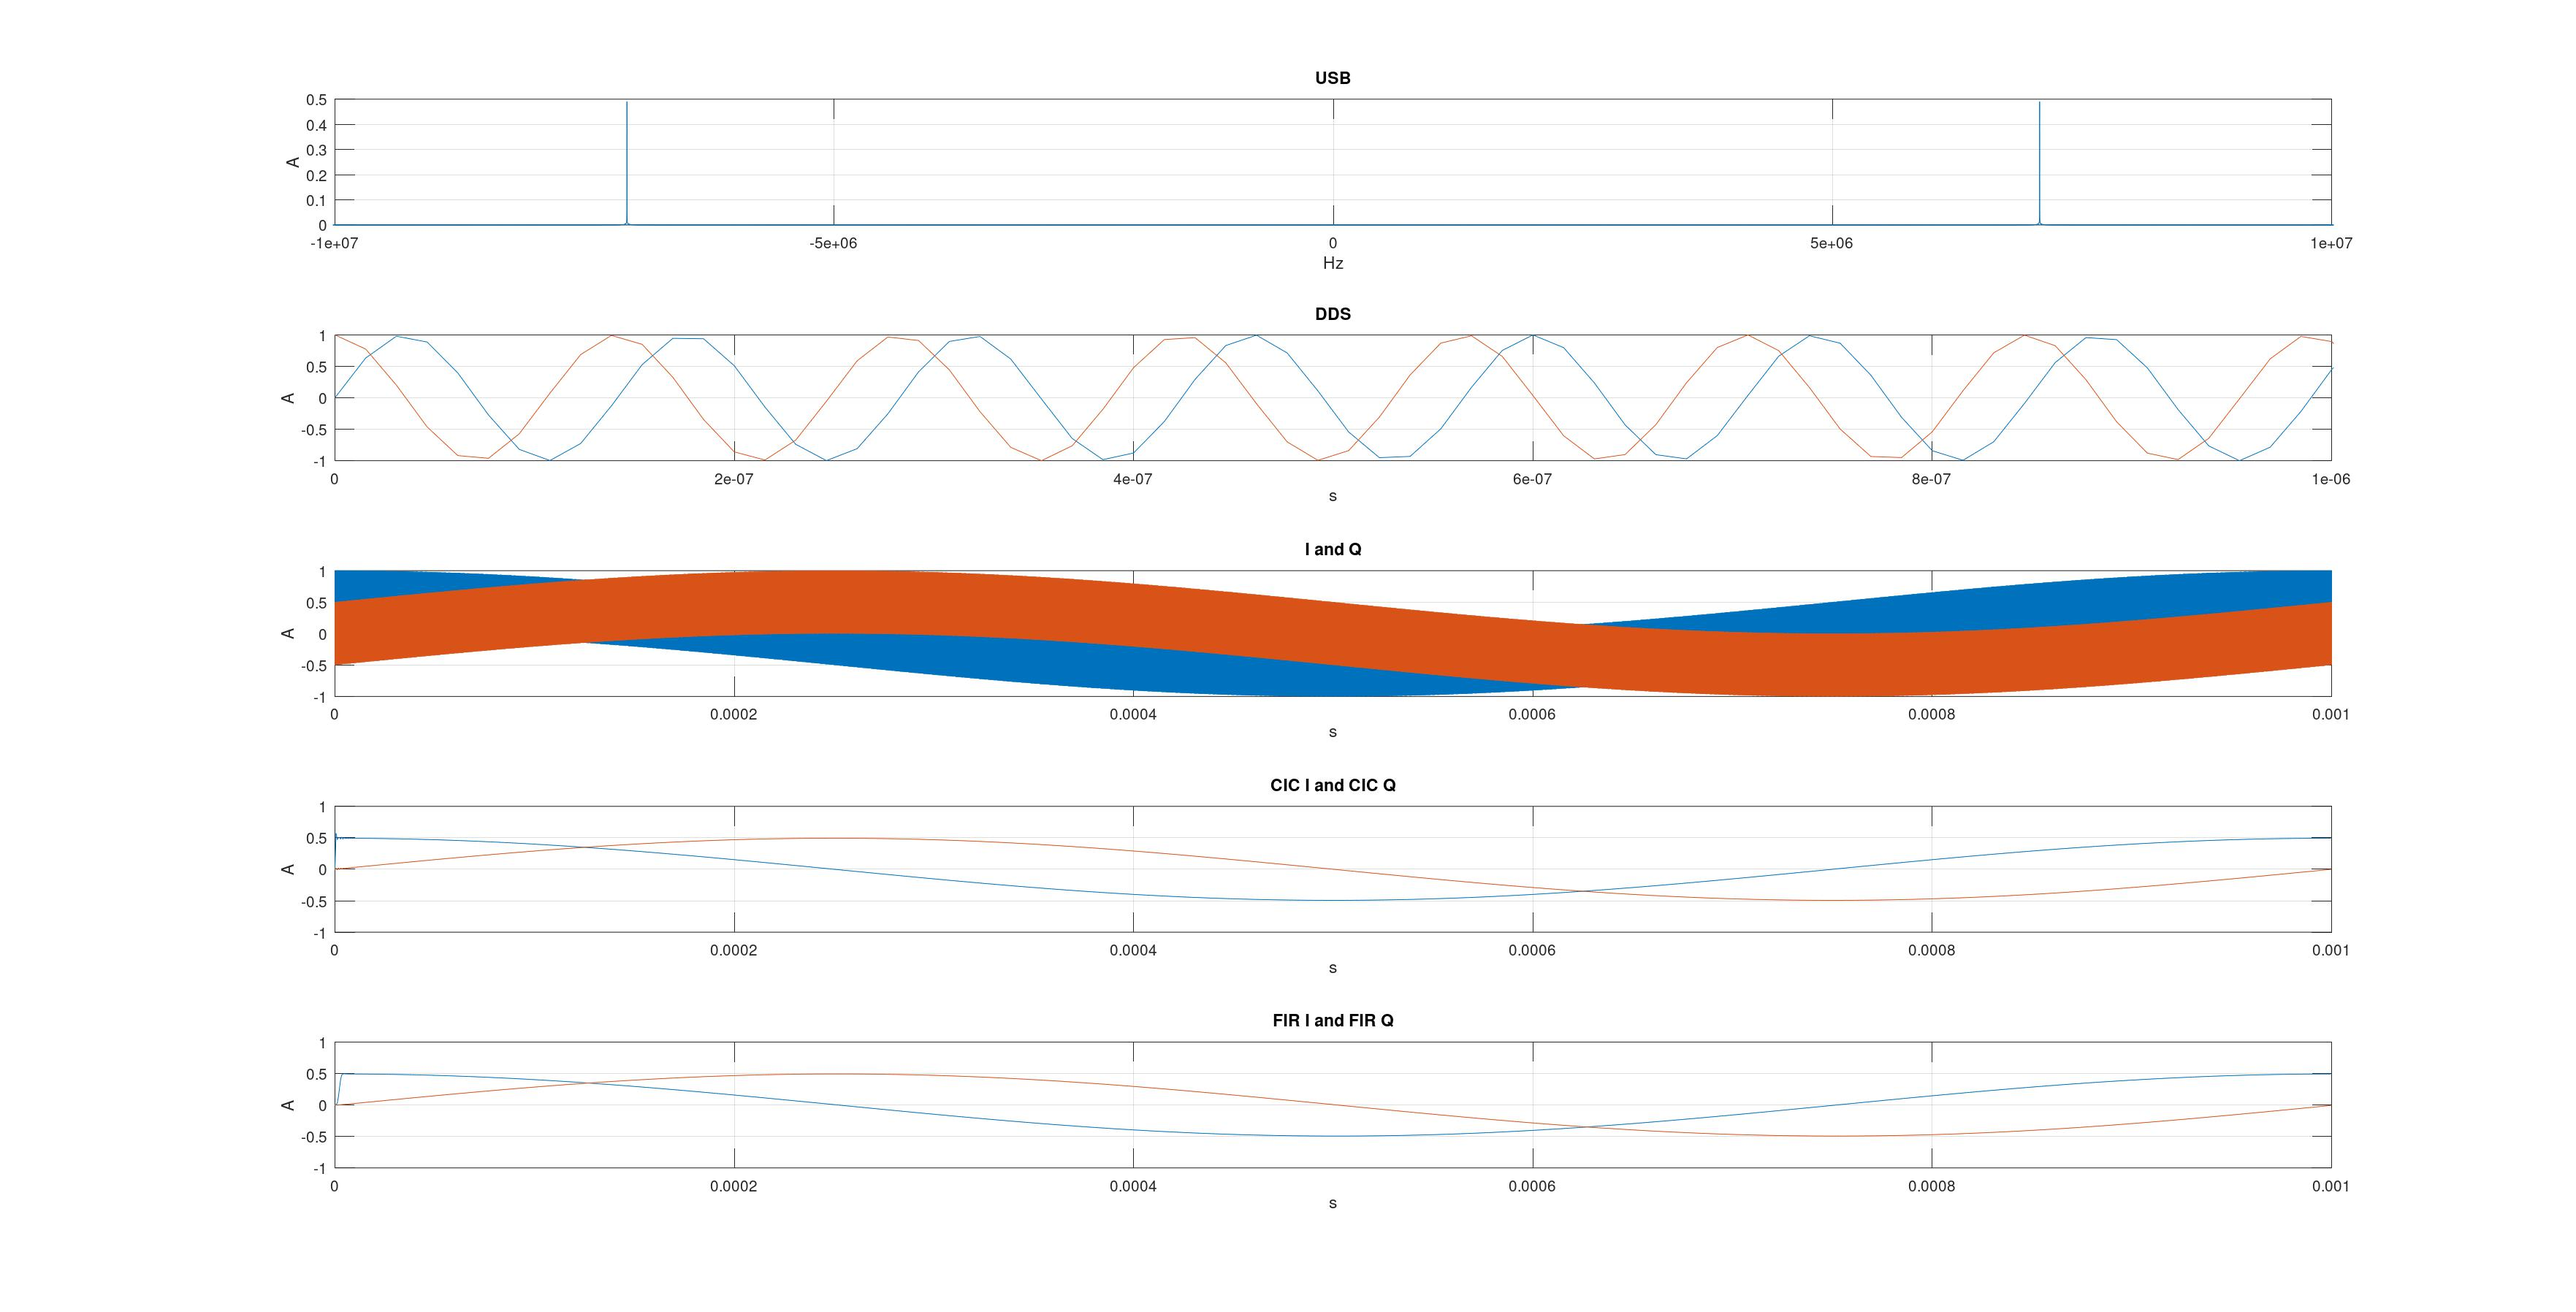
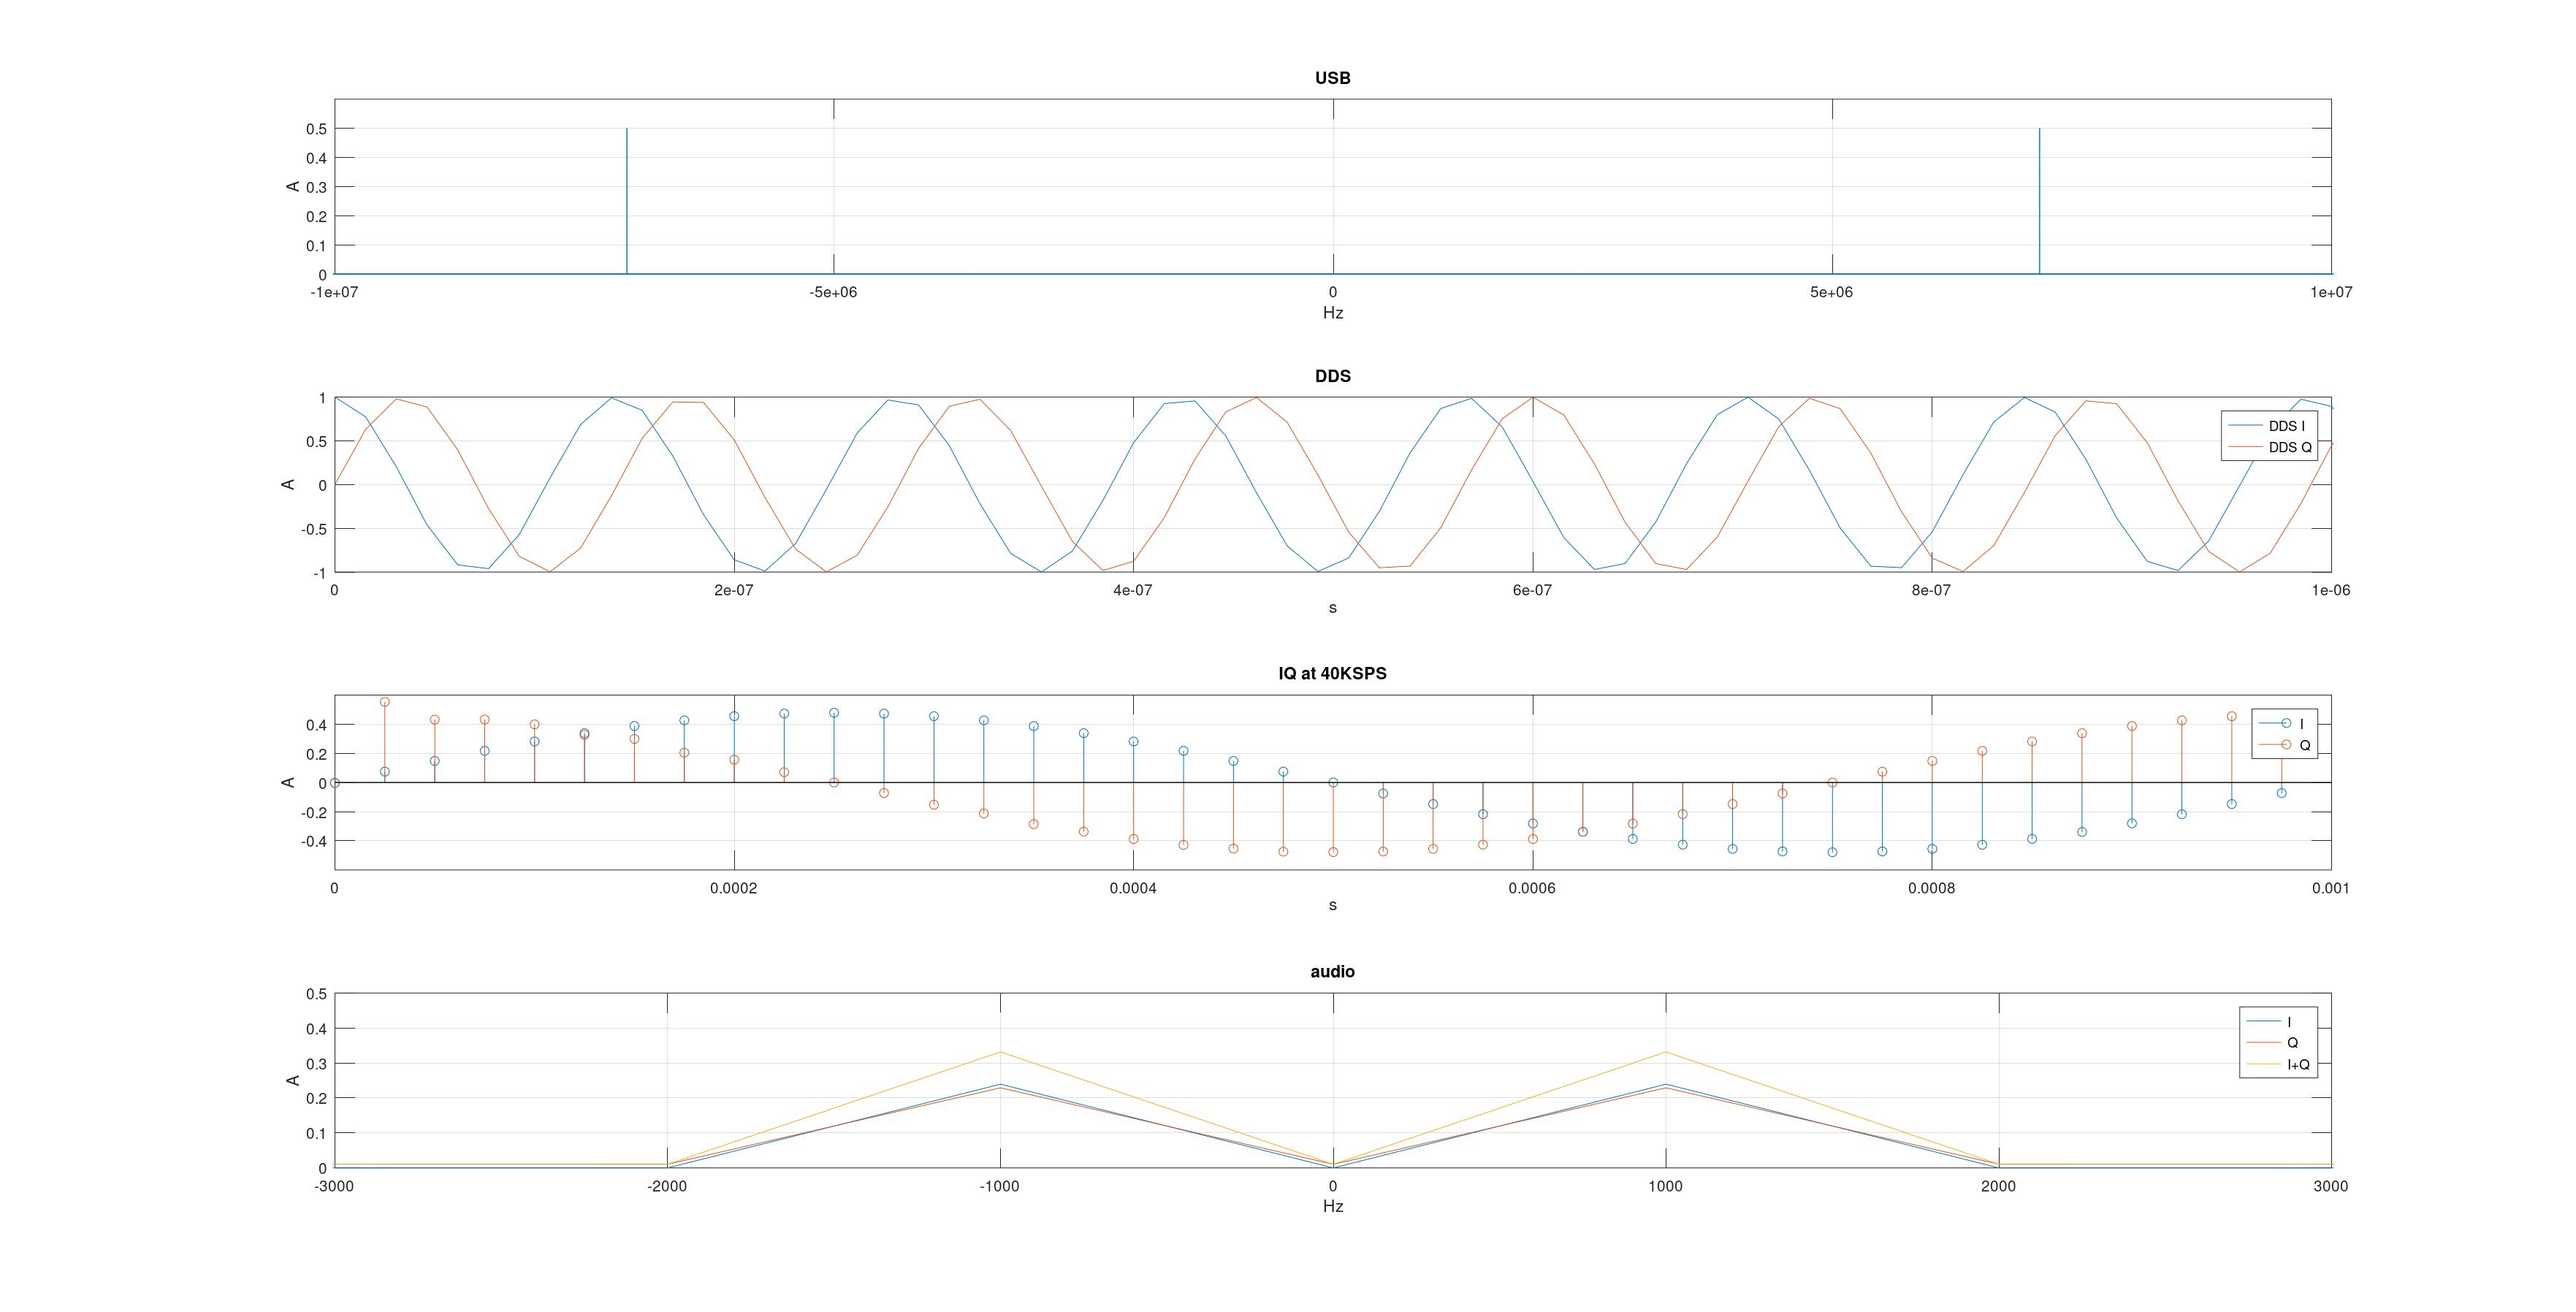
added iq demodulator

diff --git a/matlab/iq_demodulator.m b/matlab/iq_demodulator.m
@@ -7,69 +7,74 @@ clc
 
 fs = 65e6
 t = 0 : 1/fs : 1e-3 - 1/fs
-
-fa = 1e3
-audio = sin(2*pi*fa*t)
-fc = 7.074e6
-usb = ssbmod(audio, fc, fs, 0, "upper")
 df = -fs/2 : 1e3 : fs/2-1e3
 
-dds_sin = sin(2*pi*fc*t)
-dds_cos = cos(2*pi*fc*t)
+fc = 7.074e6
+fa = 1e3
+audio = sin(2*pi*fa*t)
+usb = ssbmod(audio, fc, fs, 0, "upper")
 
-i = dds_sin.*usb
-q = dds_cos.*usb
+dds_i = cos(2*pi*fc*t)
+dds_q = sin(2*pi*fc*t)
 
+i = usb.*dds_i
+q = usb.*dds_q
 
 figure(1)
-subplot(5, 1, 1)
+subplot(4, 1, 1)
 plot(df, abs(fftshift(fft(usb)/length(df))))
-axis([-10e6, 10e6, 0, 1])
+hold on
+hold off
+axis([-10e6, 10e6, 0, 0.6])
 title('USB')
 xlabel('Hz')
 ylabel('A')
 grid on
-subplot(5, 1, 2)
-plot(t, dds_sin)
+subplot(4, 1, 2)
+plot(t, dds_i)
 hold on
-plot(t, dds_cos)
+plot(t, dds_q)
 hold off
 axis([0, 1e-6, -1, 1])
 title('DDS')
 xlabel('s')
 ylabel('A')
+legend('DDS I', 'DDS Q')
 grid on
-subplot(5, 1, 3)
-plot(t, i)
-hold on
-plot(t, q)
-hold off
-axis([0, 1e-3, -1, 1])
-title('I and Q at 65MSPS')
-xlabel('s')
-ylabel('A')
-grid on
-subplot(5, 1, 4)
+subplot(4, 1, 3)
 {
   # Matlab doesn't allow a decimation factor above 13 in a single step:
-  dec_factor = 13*13*9
+  dec_factor = 13*5*5*5
   fs = fs/dec_factor
-  t = 0 : 1/fs : 1e-3
+  t = 0 : 1/fs : 1e-3 - 1/fs
+  df = -fs/2 : 1e3 : fs/2-1e3
 
-  i1 = decimate(i, 13)
-  q1 = decimate(q, 13)
-  i2 = decimate(i1, 13)
-  q2 = decimate(q1, 13)
-  i = decimate(i2, 9)
-  q = decimate(q2, 9)
+  temp_i = i
+  temp_q = q
+  i = decimate(decimate(decimate(decimate(temp_i, 13), 5), 5), 5)
+  q = decimate(decimate(decimate(decimate(temp_q, 13), 5), 5), 5)
 }
 stem(t, i)
 hold on
 stem(t, q)
 hold off
-axis([0, 1e-3, -1, 1])
-title('I and Q at 44KSPS')
+axis([0, 1e-3, -0.6, 0.6])
+title('IQ at 40KSPS')
 xlabel('s')
 ylabel('A')
+legend('I', 'Q')
+grid on
+subplot(4, 1, 4)
+plot(df, abs(fftshift(fft(i))/length(df)))
+hold on
+plot(df, abs(fftshift(fft(q)/length(df))))
+hold on
+plot(df, abs(fftshift(fft(i+q)/length(df))))
+hold off
+axis([-3e3, 3e3, 0, 0.5])
+title('audio')
+xlabel('Hz')
+ylabel('A')
+legend('I', 'Q', 'I+Q')
 grid on
 

diff --git a/matlab/iq_modulator.m b/matlab/iq_modulator.m
@@ -1,0 +1,64 @@
+addpath("C:\Users\Martin Stoyanov\IdeaProjects\va3aui\matlab")
+pkg load communications
+pkg load signal
+clear all
+close all
+clc
+
+fs = 65e6
+t = 0 : 1/fs : 1e-3 - 1/fs
+df = -fs/2 : 1e3 : fs/2-1e3
+
+fa = 1e3
+audio = sin(2*pi*fa*t)
+audio_i = -imag(hilbert(audio))
+audio_q = audio
+
+fc = 7.074e6
+dds_i = cos(2*pi*fc*t)
+dds_q = sin(2*pi*fc*t)
+
+i = audio_i.*dds_i
+q = audio_q.*dds_q
+
+figure(1)
+subplot(3, 1, 1)
+plot(t, audio_i)
+hold on
+plot(t, audio_q)
+hold off
+axis([0, 1e-3, -1, 1])
+title('Audio')
+xlabel('s')
+ylabel('A')
+legend('Audio I', 'Audio Q')
+grid on
+subplot(3, 1, 2)
+plot(t, dds_i)
+hold on
+plot(t, dds_q)
+hold off
+axis([0, 1e-6, -1, 1])
+title('DDS')
+xlabel('s')
+ylabel('A')
+legend('DDS I', 'DDS Q')
+grid on
+subplot(3, 1, 3)
+plot(df, abs(fftshift(fft(i)/length(df))))
+hold on
+plot(df, abs(fftshift(fft(q)/length(df))))
+hold on
+# LSB:
+plot(df, abs(fftshift(fft(i+q)/length(df))))
+hold on
+# USB:
+plot(df, abs(fftshift(fft(i-q)/length(df))))
+hold off
+axis([-10e6, 10e6, 0, 0.6])
+title('SSB')
+xlabel('Hz')
+ylabel('A')
+legend('I', 'Q', 'LSB', 'USB')
+grid on
+
